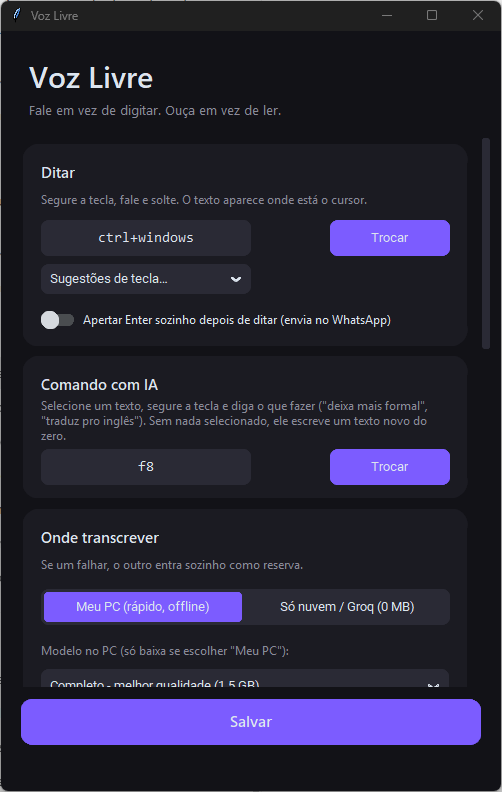
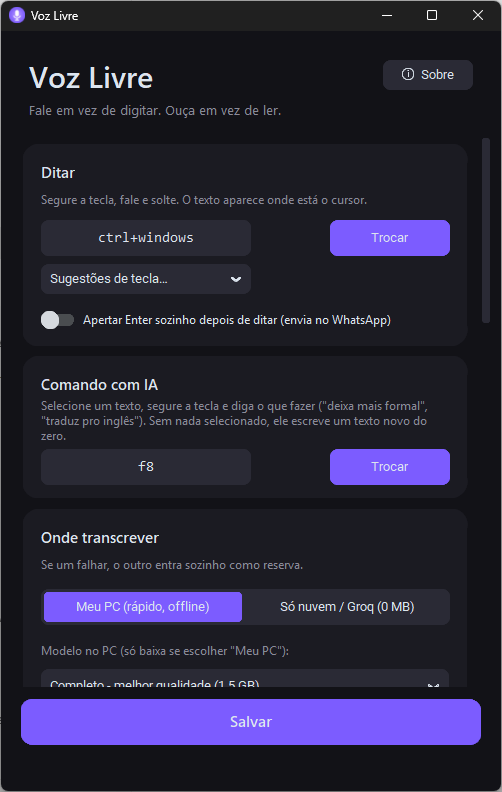
Voz Livre 1.2 - janela Sobre
- Janela "Sobre" (menu do ícone e botão nas Configurações), com versão,
  créditos, licença e a história do app em Fernando de Noronha
- Seção "Sobre" no README, com print
- Print da tela de Configurações atualizado

Claude-Session: https://claude.ai/code/session_01JG3bhzm2wqTFVW5Zn3xHKY

Changed region(s): [[0.747, 0.0606, 0.9562, 0.1212], [0.0, 0.0, 0.1494, 0.0303], [0.9562, 0.3939, 0.9861, 0.4545]]

diff --git a/sobre.py b/sobre.py
@@ -1,0 +1,82 @@
+# Janela "Sobre" do Voz Livre
+import os, sys, webbrowser
+sys.path.insert(0, os.path.dirname(os.path.abspath(__file__)))
+import customtkinter as ctk
+import voz_livre as app
+
+ROXO, ROXO_HOVER = "#7c5cff", "#6a4be6"
+CARD, CHIP, CINZA, CLARO = "#1b1b22", "#2a2a35", "#8a8a99", "#c9c9d6"
+F = "Segoe UI"
+REPO = "https://github.com/rodrigoranda/voz-livre"
+
+TEXTO_APP = (
+    "Ditado por voz com IA para Windows. Segure uma tecla, fale e solte: "
+    "o texto aparece onde estiver o cursor. Também lê textos em voz alta (traduzindo "
+    "para o português) e reescreve textos com um comando de voz.\n\n"
+    "Grátis, de código aberto e pode funcionar 100% offline, no seu próprio computador."
+)
+TEXTO_NORONHA = (
+    "O Voz Livre nasceu em Fernando de Noronha, um arquipélago vulcânico no meio do "
+    "Atlântico, a cerca de 545 km de Recife. São 21 ilhas e ilhotas, a maior parte "
+    "protegida pelo Parque Nacional Marinho e reconhecida pela UNESCO como Patrimônio "
+    "Natural da Humanidade. É a terra da Baía do Sancho, várias vezes eleita a praia "
+    "mais bonita do mundo, e dos golfinhos-rotadores da Baía dos Golfinhos.\n\n"
+    "Em uma ilha, a internet nem sempre colabora. Por isso o app foi pensado para "
+    "funcionar também sem conexão. Ele foi feito por um morador da ilha que trabalha "
+    "com tecnologia há mais de 40 anos, para facilitar o dia a dia de quem atende "
+    "clientes, turistas e vizinhos pelo WhatsApp."
+)
+
+
+def main():
+    ctk.set_appearance_mode("dark")
+    janela = ctk.CTk(fg_color="#121217")
+    janela.title("Sobre o Voz Livre")
+    janela.geometry("480x720")
+    janela.resizable(False, True)
+    try:
+        janela.iconbitmap(app.ICO)
+    except Exception:
+        pass
+    janela.attributes("-topmost", True)
+    janela.after(400, lambda: janela.attributes("-topmost", False))
+
+    topo = ctk.CTkFrame(janela, fg_color="transparent")
+    topo.pack(fill="x", padx=28, pady=(26, 4))
+    ctk.CTkLabel(topo, text="Voz Livre", font=(F + " Semibold", 30)).pack(anchor="w")
+    ctk.CTkLabel(topo, text=f"Versão {app.VERSAO}  ·  Fale em vez de digitar. Ouça em vez de ler.",
+                 font=(F, 13), text_color=CINZA).pack(anchor="w")
+
+    corpo = ctk.CTkScrollableFrame(janela, fg_color="transparent", scrollbar_button_color=CHIP)
+    corpo.pack(fill="both", expand=True, padx=6, pady=(8, 0))
+
+    def card(titulo, texto):
+        f = ctk.CTkFrame(corpo, corner_radius=16, fg_color=CARD)
+        f.pack(fill="x", padx=10, pady=(10, 0))
+        ctk.CTkLabel(f, text=titulo, font=(F + " Semibold", 15)).pack(anchor="w", padx=18, pady=(14, 4))
+        ctk.CTkLabel(f, text=texto, font=(F, 12.5), text_color=CLARO, wraplength=390,
+                     justify="left").pack(anchor="w", padx=18, pady=(0, 16))
+        return f
+
+    card("O que é", TEXTO_APP)
+    card("Feito em Fernando de Noronha", TEXTO_NORONHA)
+    card("Créditos", "Usa Whisper (OpenAI), faster-whisper (SYSTRAN), Groq, vozes do Microsoft Edge "
+                     "(edge-tts), CustomTkinter, pystray, keyboard, sounddevice e outras bibliotecas "
+                     "de código aberto. A lista completa, com as licenças, está no README do projeto.")
+    card("Licença", "MIT: use, modifique e distribua à vontade, inclusive em projetos comerciais. "
+                    "Só mantenha o aviso de copyright.\n\nProjeto independente, sem ligação com "
+                    "Wispr, OpenAI, Groq ou Microsoft.")
+
+    rodape = ctk.CTkFrame(janela, fg_color="transparent")
+    rodape.pack(fill="x", padx=20, pady=14)
+    ctk.CTkButton(rodape, text="Ver no GitHub", height=42, corner_radius=12, font=(F + " Semibold", 14),
+                  fg_color=ROXO, hover_color=ROXO_HOVER, command=lambda: webbrowser.open(REPO)).pack(side="left", expand=True, fill="x", padx=(0, 6))
+    ctk.CTkButton(rodape, text="Fechar", height=42, corner_radius=12, font=(F, 14), fg_color=CHIP,
+                  hover_color="#383846", command=janela.destroy).pack(side="left", expand=True, fill="x", padx=(6, 0))
+    ctk.CTkLabel(janela, text="© 2026 Rodrigo Morais · Fernando de Noronha, PE · Brasil",
+                 font=(F, 11), text_color=CINZA).pack(pady=(0, 12))
+    janela.mainloop()
+
+
+if __name__ == "__main__":
+    main()

diff --git a/voz_livre.py b/voz_livre.py
@@ -4,6 +4,7 @@
 # Licenca MIT - https://github.com/rodrigoranda/voz-livre
 import os, sys, json, time, threading, io, wave, logging, subprocess
 
+VERSAO = "1.2.0"
 BASE = os.path.dirname(os.path.abspath(__file__))
 CFG = os.path.join(BASE, "config.json")
 PADRAO = {"tecla": "ctrl+windows", "motor": "pc", "tecla_ler": "ctrl+shift+l", "voz": "pt-BR-FranciscaNeural",
@@ -798,6 +799,10 @@ def abrir_config(*_):
     subprocess.Popen([PYTHONW, os.path.join(BASE, "config_ui.py")])
 
 
+def abrir_sobre(*_):
+    subprocess.Popen([PYTHONW, os.path.join(BASE, "sobre.py")])
+
+
 def inicia_com_windows(*_):
     return os.path.exists(ATALHO_INICIAR)
 
@@ -862,6 +867,7 @@ def main():
         pystray.MenuItem("Iniciar com o Windows", alternar_iniciar, checked=inicia_com_windows),
         pystray.MenuItem("Abrir pasta", lambda *_: os.startfile(BASE)),
         pystray.Menu.SEPARATOR,
+        pystray.MenuItem(f"Sobre o Voz Livre (v{VERSAO})", abrir_sobre),
         pystray.MenuItem("Sair", sair),
     )
     icone = pystray.Icon("voz_livre", desenhar(CORES["carregando"]), "Voz Livre - carregando...", menu)

diff --git a/config_ui.py b/config_ui.py
@@ -27,7 +27,11 @@ def main():
     # Cabecalho
     topo = ctk.CTkFrame(app, fg_color="transparent")
     topo.pack(fill="x", padx=28, pady=(24, 4))
-    ctk.CTkLabel(topo, text="Voz Livre", font=(F + " Semibold", 30)).pack(anchor="w")
+    linha_topo = ctk.CTkFrame(topo, fg_color="transparent")
+    linha_topo.pack(fill="x")
+    ctk.CTkLabel(linha_topo, text="Voz Livre", font=(F + " Semibold", 30)).pack(side="left")
+    ctk.CTkButton(linha_topo, text="ⓘ  Sobre", width=90, height=30, corner_radius=8, fg_color=CHIP,
+                  hover_color="#383846", command=ditado.abrir_sobre).pack(side="right")
     ctk.CTkLabel(topo, text="Fale em vez de digitar. Ouça em vez de ler.",
                  font=(F, 13), text_color=CINZA).pack(anchor="w")
 

diff --git a/README.md b/README.md
@@ -37,6 +37,20 @@ Todas as teclas podem ser trocadas nas Configurações.
 
 ---
 
+## 🏝 Sobre
+
+O **Voz Livre** nasceu em **Fernando de Noronha**, um arquipélago vulcânico no meio do Oceano Atlântico, a cerca de 545 km de Recife. São 21 ilhas e ilhotas, a maior parte protegida pelo **Parque Nacional Marinho** e reconhecida pela **UNESCO como Patrimônio Natural da Humanidade**. É a terra da **Baía do Sancho**, várias vezes eleita a praia mais bonita do mundo, e dos golfinhos-rotadores da Baía dos Golfinhos.
+
+Em uma ilha, a internet nem sempre colabora. Por isso o app foi pensado para **funcionar também sem conexão**, rodando direto no computador. Ele foi criado por **Rodrigo Morais**, morador da ilha que trabalha com tecnologia há mais de 40 anos, para facilitar o dia a dia de quem atende clientes, turistas e vizinhos pelo WhatsApp e não quer pagar assinatura para ditar texto.
+
+A ideia é simples: uma ferramenta boa, gratuita e aberta, feita no Brasil e em português, que qualquer pessoa pode usar, estudar e melhorar.
+
+No app, o "Sobre" fica no ícone perto do relógio → **Sobre o Voz Livre**, ou no botão **ⓘ Sobre** das Configurações.
+
+<div align="center"><img src="assets/sobre.png" width="340" alt="Janela Sobre do Voz Livre"></div>
+
+---
+
 ## 📥 Instalação
 
 ### 1. Instale o Python
@@ -188,6 +202,7 @@ O histórico, o dicionário, a chave e as configurações ficam **só na pasta d
 voz-livre/
 ├── voz_livre.py        # o app (bandeja, teclas, gravação, transcrição, IA, leitura, pílula)
 ├── config_ui.py        # tela de Configurações
+├── sobre.py            # janela "Sobre"
 ├── criar_atalhos.py    # cria os atalhos (usado pelo instalador)
 ├── instalar.bat        # instalador em um clique
 ├── requirements.txt    # bibliotecas necessárias
@@ -249,5 +264,7 @@ Desenvolvido por **Rodrigo Morais**, em Fernando de Noronha 🏝, com a ajuda
 - Floating overlay drawn with real per-pixel transparency (smooth edges, soft shadow): draggable, with adjustable size and opacity.
 
 **Install:** Python 3.10+, then run `instalar.bat`. Get a free Groq key at [console.groq.com](https://console.groq.com) for the cloud and AI features. The UI is in Portuguese; dictation language is currently fixed to Portuguese (PRs welcome!).
+
+**About:** made in **Fernando de Noronha**, a volcanic archipelago and UNESCO World Heritage Site off the coast of Brazil, by a local who has worked with technology on the island for over 40 years. Island internet is unreliable, which is why Voz Livre can run fully offline.
 
 License: MIT.
